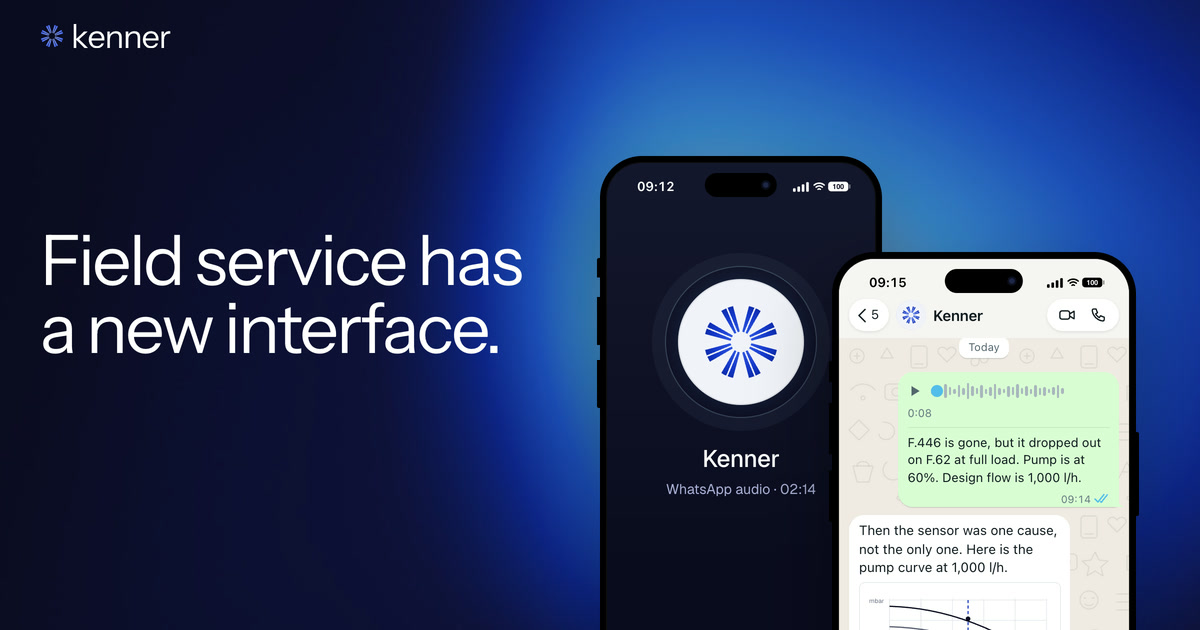
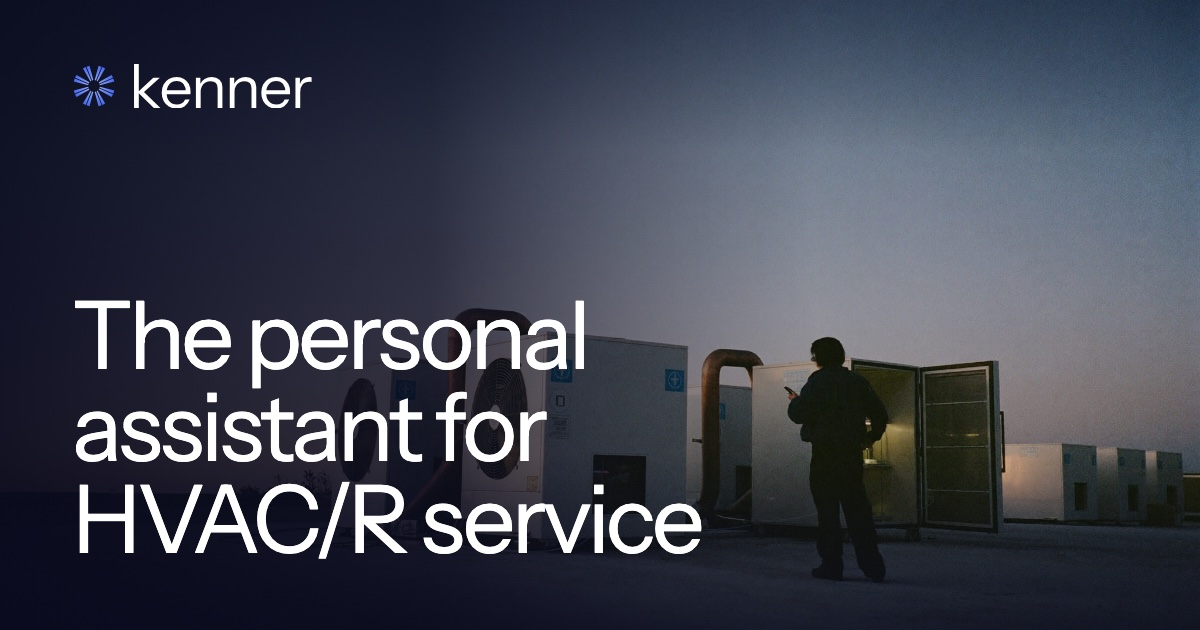
New link preview for the HVAC/R homepage
og-image.jpg now shows the new headline over the hero photo, and its alt text matches.

diff --git a/index.html b/index.html
@@ -13,7 +13,7 @@
 <meta property="og:image" content="https://getkenner.com/og-image.jpg">
 <meta property="og:image:width" content="1200">
 <meta property="og:image:height" content="630">
-<meta property="og:image:alt" content="kenner: Field service has a new interface. Two phones show a WhatsApp call and chat with Kenner.">
+<meta property="og:image:alt" content="kenner: The personal assistant for HVAC/R service. A technician checks a phone between rooftop units at first light.">
 <meta name="twitter:card" content="summary_large_image">
 <meta name="twitter:image" content="https://getkenner.com/og-image.jpg">
 <link rel="icon" href="favicon.svg" type="image/svg+xml">

diff --git a/README.md b/README.md
@@ -16,7 +16,7 @@ Static site served by GitHub Pages from `main` (custom domain in `CNAME`, keep t
 - `logos/`, `mono/`: integration, channel and team logos, in colour and in one colour
 - `light/`: light backgrounds
 - `photos/`, `media/`, `demo/`: from the previous homepage, not used by the current one
-- `favicon.svg`, `favicon-32.png`, `apple-touch-icon.png`, `og-image.jpg` (link preview, 1200x630, still the previous headline)
+- `favicon.svg`, `favicon-32.png`, `apple-touch-icon.png`, `og-image.jpg` (link preview, 1200x630)
 
 ## Notes
 - Booking links point to https://calendar.app.google/fFpCL3WG3pJtqtC89 (existing Google Workspace booking page).
